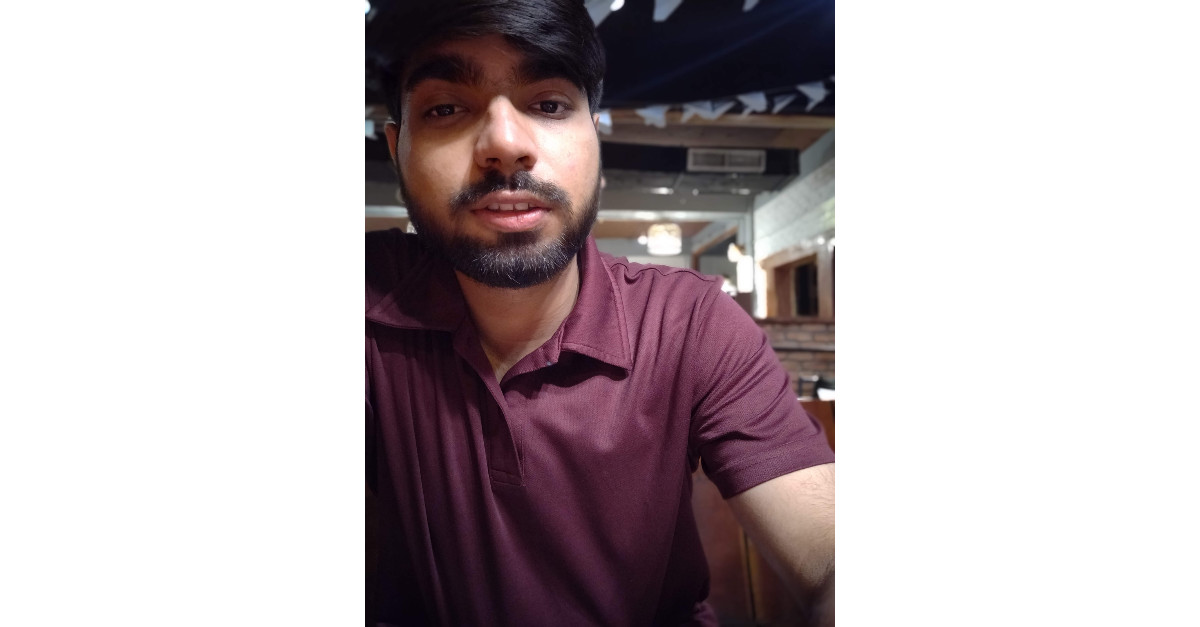
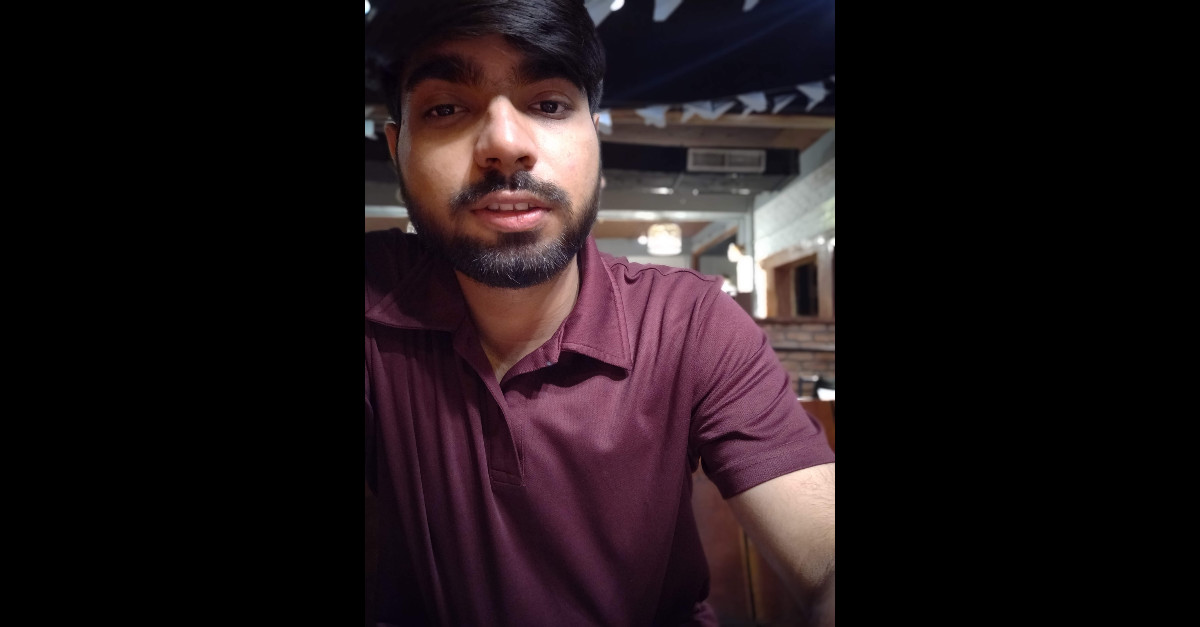
v1.2-beta, edited og:image with black bg

diff --git a/flutter_service_worker.js b/flutter_service_worker.js
@@ -28,7 +28,7 @@ const RESOURCES = {
 "/": "c89fc7a0c56a736761bf900884804782",
 "apple-icon-precomposed.png": "a225aed438b0ca8922e754525e5b404e",
 "browserconfig.xml": "653d077300a12f09a69caeea7a8947f8",
-"myOGImage.jpg": "2a5ee8a7c1d5a7aa96c76b5eb077c51a",
+"myOGImage.jpg": "0c695ccdd5ec1d21a9ca436d374609a3",
 "ms-icon-310x310.png": "779efe3c07bd3b1eaf99237cbeef17da",
 "favicon-96x96.png": "966e495f20828fe4f1d977bb107996e3",
 "ms-icon-144x144.png": "b455098384e75553c8d391a6b574ec4e",
@@ -47,14 +47,14 @@ const RESOURCES = {
 "apple-icon-57x57.png": "aba97e542c69e7690e9f38c352a58e7c",
 "favicon-32x32.png": "49a8be67bc9af1fb47563f9d26b28c02",
 ".git/ORIG_HEAD": "26136dcf47c1a6e7b3a618f6f635860f",
-".git/COMMIT_EDITMSG": "5e8b0dd6f5ebdcb1f946b84b2836d756",
+".git/COMMIT_EDITMSG": "bf89eb179246470ace4d2df43917f38e",
 ".git/info/exclude": "036208b4a1ab4a235d75c181e685e5a3",
 ".git/description": "a0a7c3fff21f2aea3cfa1d0316dd816c",
 ".git/HEAD": "4cf2d64e44205fe628ddd534e1151b58",
-".git/refs/heads/master": "7a078988e85d16877e9740b7379bf056",
+".git/refs/heads/master": "c1c50c1a377b59137d8f01b6fa27cc68",
 ".git/refs/tags/v0.2-alpha": "d3f71d7ca22196918d538b1d47b437dd",
 ".git/refs/tags/v1.0-beta.1": "b5c9f1e3dca57d4556c5762cc2dbd2e1",
-".git/refs/remotes/origin/master": "7a078988e85d16877e9740b7379bf056",
+".git/refs/remotes/origin/master": "c1c50c1a377b59137d8f01b6fa27cc68",
 ".git/objects/0a/b21e889597ff62257b741bfef096eba4b8f635": "3e5c3b3305d0f3593f03e488803e4146",
 ".git/objects/e0/e9f36d06bd927ad74c52c7f8b0744d5b55eaf9": "0a20bf3c689d71f11aa1e8611734e259",
 ".git/objects/96/ab79514bdc4e5efea2651cca9d581c97b066b0": "b04bc75bf94d87ea496121c9f878a3e7",
@@ -63,10 +63,13 @@ const RESOURCES = {
 ".git/objects/5c/1dc2a24453f8eeff13479e896e5292b9b54960": "cf88c01e2c8ad4886d33ea1ae79a2268",
 ".git/objects/0c/aeaece91911b76a7bc8f4d10820b8b9a93d072": "1b8e43477e47f777fa33689ccae5ee4c",
 ".git/objects/27/80ef6645d6226e94b9d73c867c53b4fc12ae3c": "cbe2cf451b2d4e3a94e2ea483522e857",
+".git/objects/e2/daf338f4f9479b815d1360fbcacbf4b501b614": "545c3baf625bbcbd28bfa58af6ed040d",
 ".git/objects/56/738930c95aeb8c8a270a5d451708e5cfebebe0": "1cfcbffc480139b825cb71bb2da92ce8",
 ".git/objects/ae/b5ff730b507874a09dca69819d320ac6768c45": "ae9b76c5e705fd2ac9f84a8159d9bd0c",
 ".git/objects/f3/85f056d78cfc325e1289b4824a81a7a7620b34": "a60be070a34b2b630d0e4a78a4507b92",
 ".git/objects/e8/8c76b33d8557a23536e7beb19f588238f93d8a": "c3a81dccc21e7a11bc7c7ae01c523fbb",
+".git/objects/e8/86aa8839865d1844f9a52627f5bc6a0dc6ea92": "c74c73cacab36288a11f39988282fe1b",
+".git/objects/be/6a0413482f8f0fd2b324ec035332522f409d74": "3df075b2a36c0d561269c8d8ea6b8d24",
 ".git/objects/be/cb0576f28dc3530f92275da4eab7e3cc9028e7": "b4f1ee7378752f285f2859d293ac325c",
 ".git/objects/81/74d6ce6a7a2cae588f657f9bbe2c9bd4e34bbe": "c56ade46ba3e73efc7ea47d7b83caef8",
 ".git/objects/5e/b6dd83d65f26bd8e715a8e6ccc19fa30e1f93c": "ea13eff0d0593b4911a89d6bd8adbb06",
@@ -86,6 +89,7 @@ const RESOURCES = {
 ".git/objects/76/c018479bbf63b642c670497fb6beea4e4e7f77": "a1ed68dd666b82c541fb7ff711d262b5",
 ".git/objects/8a/55dfcaef7ae3dd75da97aa119a2ff5fd6b894e": "8d1b452705c06da8e0636d8cfac8bd86",
 ".git/objects/51/45bdb0d82e05040b0d710985b493299a4ee606": "12632ee95928f50f7c87a9d0e1be8b30",
+".git/objects/04/1c30fc9dc1cc838ad1a00c0af7f16e2467cba5": "b60c40d6123c6442e10afbbd239d8b6e",
 ".git/hooks/pre-rebase.sample": "56e45f2bcbc8226d2b4200f7c46371bf",
 ".git/hooks/post-update.sample": "2b7ea5cee3c49ff53d41e00785eb974c",
 ".git/hooks/pre-merge-commit.sample": "39cb268e2a85d436b9eb6f47614c3cbc",
@@ -98,12 +102,12 @@ const RESOURCES = {
 ".git/hooks/pre-commit.sample": "e4db8c12ee125a8a085907b757359ef0",
 ".git/hooks/fsmonitor-watchman.sample": "db4d62db2039e4bec38baa7567788284",
 ".git/hooks/prepare-commit-msg.sample": "2b5c047bdb474555e1787db32b2d2fc5",
-".git/index": "ba3e18575e835277383a346202a2a03b",
+".git/index": "1319416aecc96934dcbe1adfcd91fe16",
 ".git/config": "7adce7eefc76c289ccc2e8188f23eb93",
 ".git/FETCH_HEAD": "242f9bcb5e62f8c012479cb9b682d208",
-".git/logs/HEAD": "81373f0966a44396938d1cc6635b25d2",
-".git/logs/refs/heads/master": "81373f0966a44396938d1cc6635b25d2",
-".git/logs/refs/remotes/origin/master": "6c4557fa3f91313d7e8494fca3a33444",
+".git/logs/HEAD": "4700ae8e152e7f251ad84c6dd39e96ff",
+".git/logs/refs/heads/master": "4700ae8e152e7f251ad84c6dd39e96ff",
+".git/logs/refs/remotes/origin/master": "75497faa134ee7bf8082dbc9bf346bb3",
 "favicon-16x16.png": "2a548e93ea4ce3904a4e59197f0740a6",
 "apple-icon-120x120.png": "e1f4a990ce689c50579c1ddc4e04e5ec",
 "manifest.json": "f8cf8c608427a70092784ccd63b96f1b"
